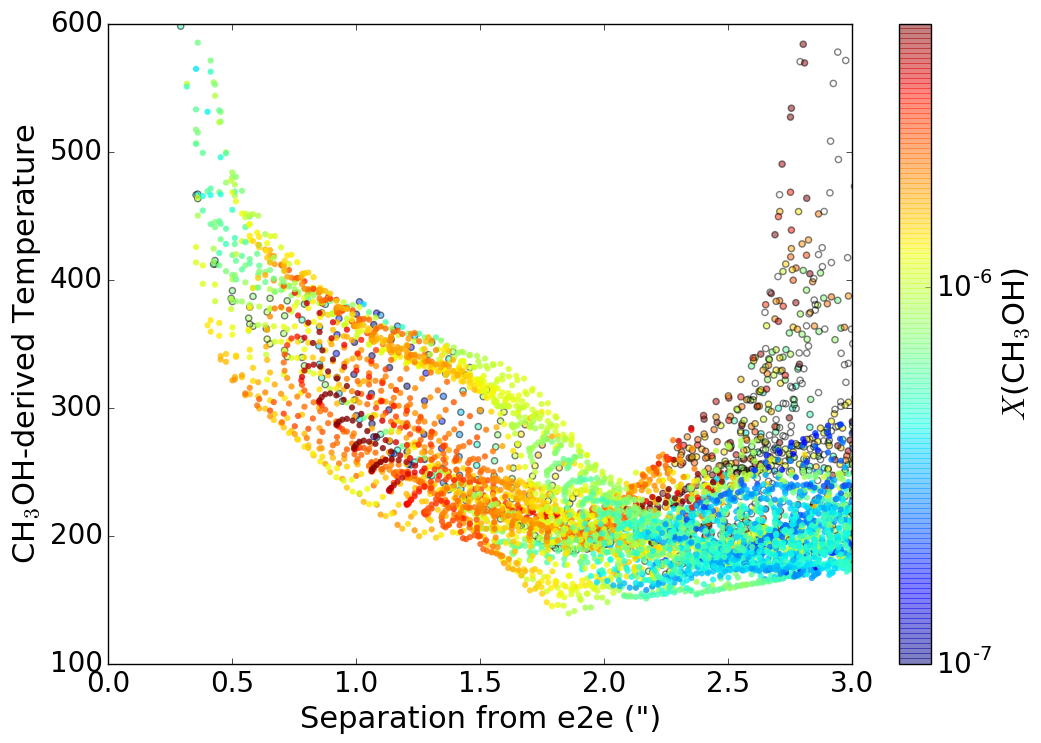
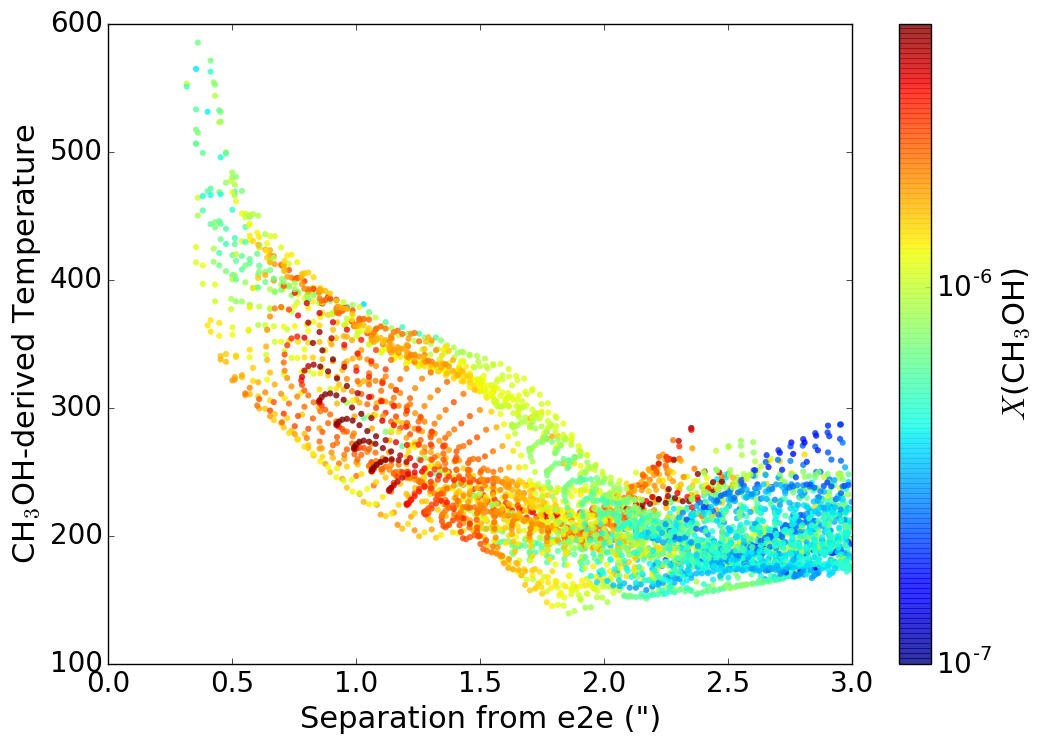
more notes - need more and more sensible flagging

diff --git a/plot_code/overlay_contours_on_ch3oh.py b/plot_code/overlay_contours_on_ch3oh.py
@@ -164,10 +164,10 @@ pl.scatter(rr_as.value[mask],
            ch3ohT[mask],
            c=ch3oh_abundance[mask], vmax=5e-6, vmin=1e-7, edgecolor='none', alpha=0.8,
            norm=matplotlib.colors.LogNorm())
-pl.scatter(rr_as.value[~mask],
-           ch3ohT[~mask],
-           c=ch3oh_abundance[~mask], vmax=5e-6, vmin=1e-7, edgecolor='k', alpha=0.5,
-           norm=matplotlib.colors.LogNorm(), zorder=-1)
+#pl.scatter(rr_as.value[~mask],
+#           ch3ohT[~mask],
+#           c=ch3oh_abundance[~mask], vmax=5e-6, vmin=1e-7, edgecolor='k', alpha=0.5,
+#           norm=matplotlib.colors.LogNorm(), zorder=-1)
 #pl.semilogy()
 pl.axis((0,3,#(rr.max()*pixscale).to(u.arcsec).value,
          100,600))

diff --git a/cores_and_outflows/cores_and_outflows.tex b/cores_and_outflows/cores_and_outflows.tex
@@ -637,6 +637,10 @@ in this inner region is likely to be underestimated.
 (d) \methanol vs dust column density.  }
 {fig:ch3ohtemX}
 
+The temperature jump at $r\sim1.5\arcsec$ (8100 AU) is substantial, though
+the floor at greater radii may be artificial...
+\todo{In order to really justify this, I need to flag out the bad fits.}
+
 {\color{red} Is the higher abundance hypothesis still supportable given Figure
 \ref{fig:ch3ohtemX}?}
 Given the enhanced abundance of \methanol in particular, it seems likely that these
